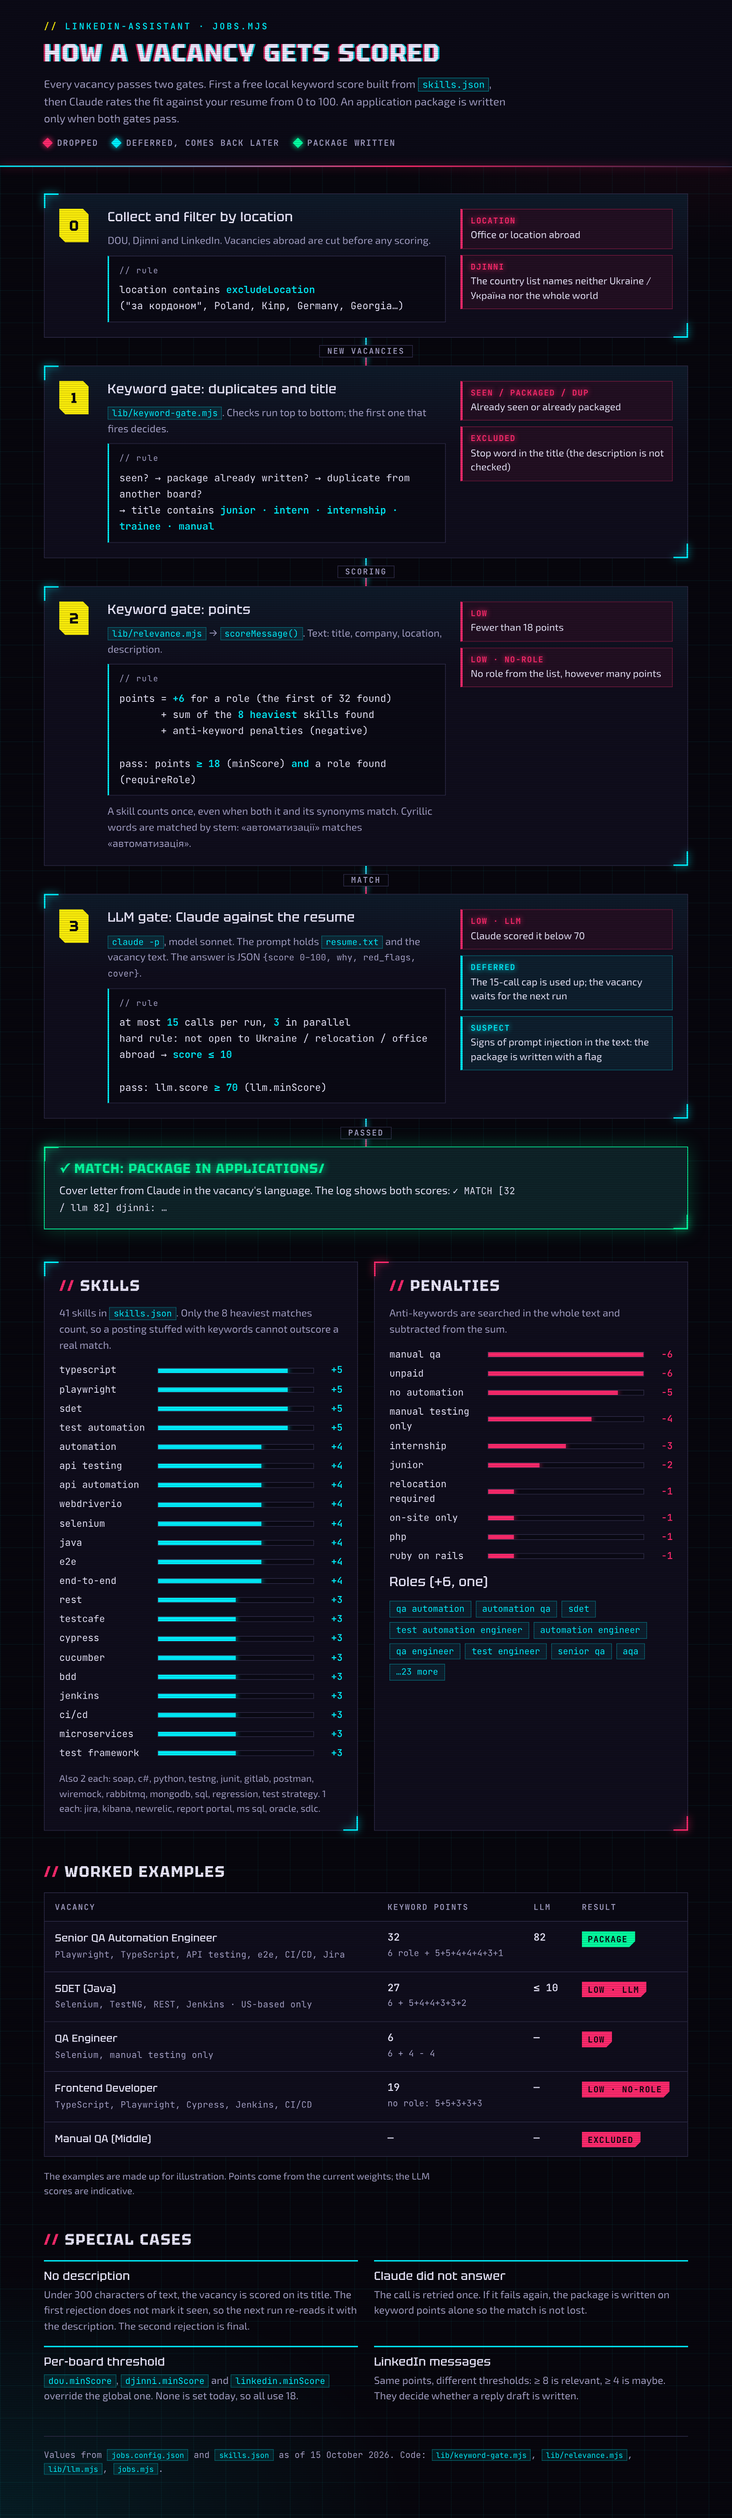
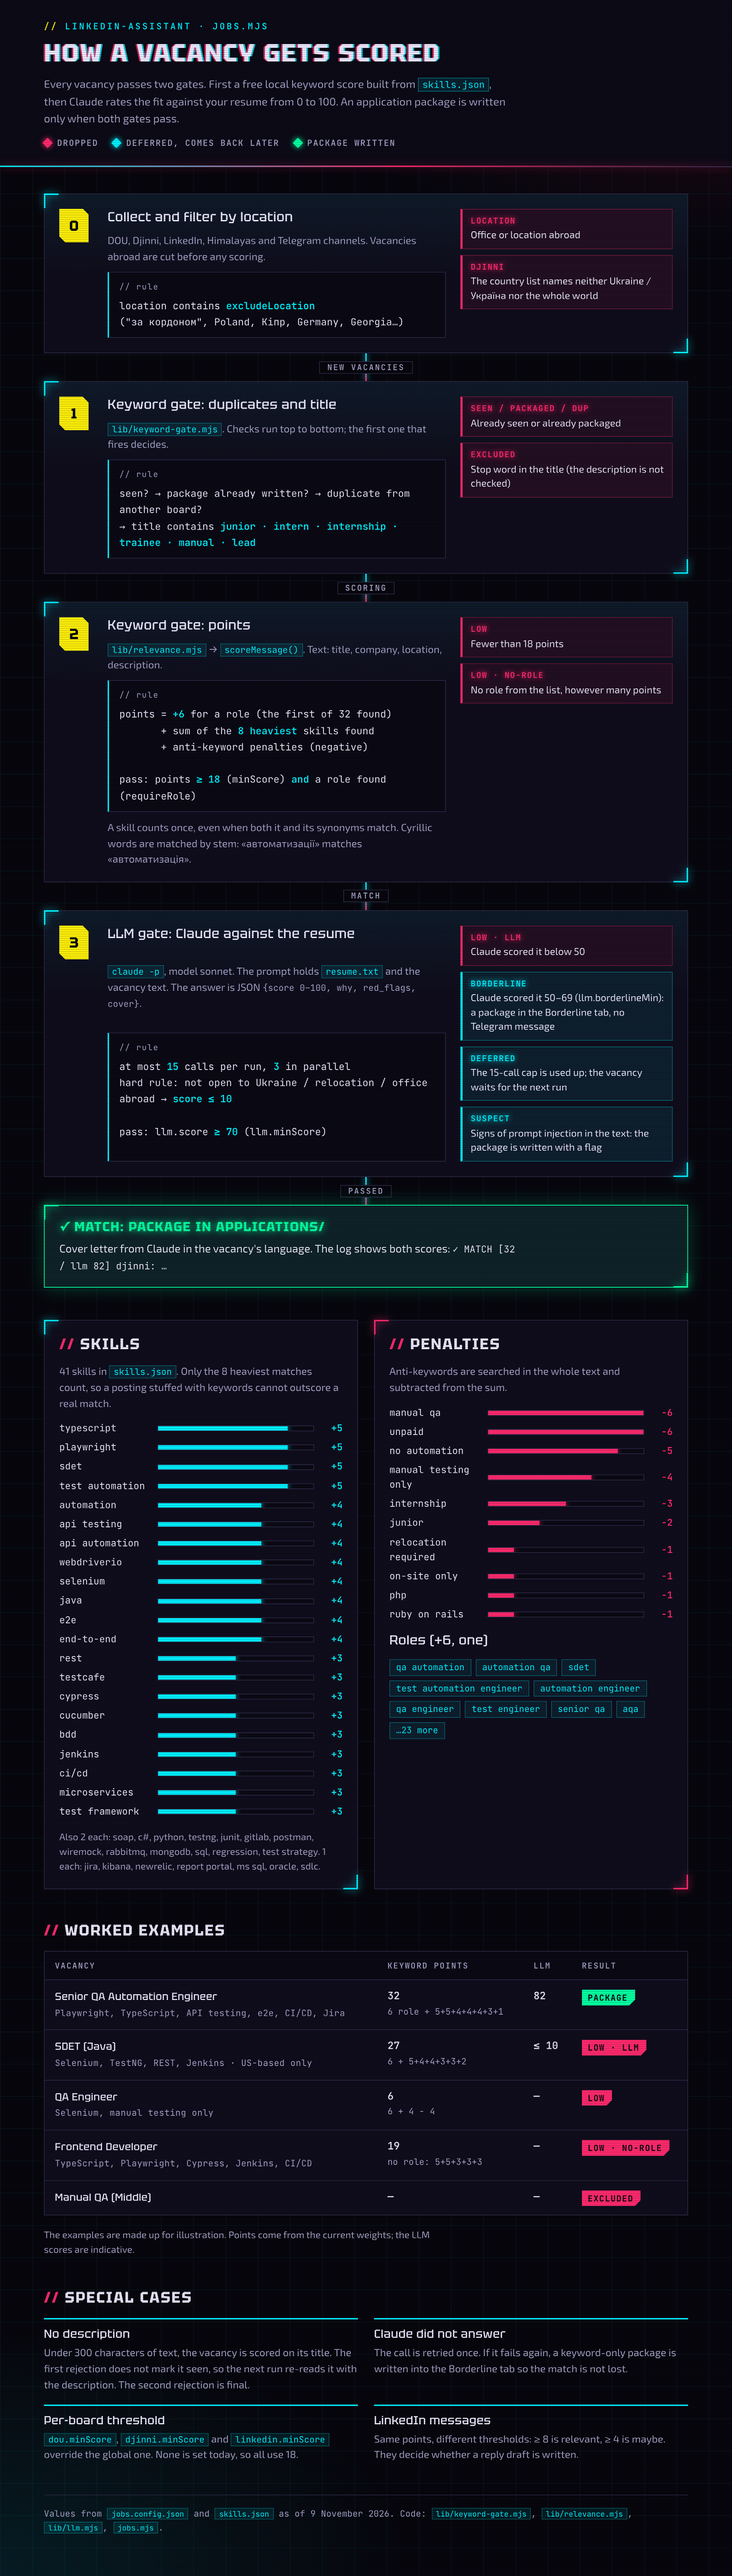
Bring the README images up to date with the code
The banner said 3 sources (there are 5: DOU, Djinni, LinkedIn, Himalayas,
Telegram channels); the scoring pages listed the title stop words without
lead, had no Borderline tier (llm.borderlineMin 50) and said a failed verdict
writes a plain package; the footer was dated 15 October. night-city.css
pointed at dashboard.mjs for tokens that live in lib/dashboard.css now.
Images re-rendered with docs/src/render.mjs.

diff --git a/docs/src/scoring.uk.html b/docs/src/scoring.uk.html
@@ -31,7 +31,7 @@
       <div class="num cut">0</div>
       <div class="body">
         <h3>Збір і фільтр за локацією</h3>
-        <p class="sub">DOU, Djinni та LinkedIn. Вакансії за кордоном відсікаються до будь-якої оцінки.</p>
+        <p class="sub">DOU, Djinni, LinkedIn, Himalayas і Telegram-канали. Вакансії за кордоном відсікаються до будь-якої оцінки.</p>
         <div class="rule" data-label="// правило">location містить <b>excludeLocation</b><br>(«за кордоном», Poland, Кіпр, Germany, Georgia…)</div>
       </div>
       <div class="exits">
@@ -46,7 +46,7 @@
       <div class="body">
         <h3>Keyword gate: дублі та заголовок</h3>
         <p class="sub"><code>lib/keyword-gate.mjs</code>. Перевірки йдуть згори вниз, вирішує перша, що спрацювала.</p>
-        <div class="rule" data-label="// правило">seen? → пакет уже є? → дубль з іншого майданчика?<br>→ заголовок містить <b>junior · intern · internship · trainee · manual</b></div>
+        <div class="rule" data-label="// правило">seen? → пакет уже є? → дубль з іншого майданчика?<br>→ заголовок містить <b>junior · intern · internship · trainee · manual · lead</b></div>
       </div>
       <div class="exits">
         <div class="exit"><span class="tag">seen / packaged / dup</span>Уже бачили або пакет уже є</div>
@@ -78,7 +78,8 @@
         <div class="rule" data-label="// правило">не більше <b>15</b> викликів за прогін, <b>3</b> паралельно<br>жорстке правило: не для України / релокейт / офіс за кордоном → <b>score ≤ 10</b><br><br>прохід: llm.score <b>≥ 70</b> (llm.minScore)</div>
       </div>
       <div class="exits">
-        <div class="exit"><span class="tag">low · llm</span>Claude поставив менше 70</div>
+        <div class="exit"><span class="tag">low · llm</span>Claude поставив менше 50</div>
+        <div class="exit soft"><span class="tag">borderline</span>Claude поставив 50–69 (llm.borderlineMin): пакет у вкладці Borderline, без повідомлення в Telegram</div>
         <div class="exit soft"><span class="tag">deferred</span>Ліміт 15 вичерпано, вакансія чекає наступного прогону</div>
         <div class="exit soft"><span class="tag">suspect</span>У тексті ознаки prompt injection: пакет пишеться з позначкою</div>
       </div>
@@ -153,13 +154,13 @@
     <h2>Особливі випадки</h2>
     <div class="notes">
       <div class="note"><h3>Немає опису</h3><p>Якщо тексту менше 300 символів, оцінка йде за заголовком. Перша відмова не позначає вакансію як seen, наступний прогін перечитає її з описом. Друга відмова вже остаточна.</p></div>
-      <div class="note"><h3>Claude не відповів</h3><p>Виклик повторюється один раз. Якщо знову помилка, пакет пишеться лише за keyword-балами, щоб збіг не загубився.</p></div>
+      <div class="note"><h3>Claude не відповів</h3><p>Виклик повторюється один раз. Якщо знову помилка, пакет лише за keyword-балами пишеться у вкладку Borderline, щоб збіг не загубився.</p></div>
       <div class="note"><h3>Свій поріг у майданчика</h3><p><code>dou.minScore</code>, <code>djinni.minScore</code>, <code>linkedin.minScore</code> перекривають загальний. Зараз жоден не задано, у всіх 18.</p></div>
       <div class="note"><h3>Повідомлення в LinkedIn</h3><p>Ті самі бали, але інші пороги: ≥ 8 — relevant, ≥ 4 — maybe. Вони вирішують, чи писати чернетку відповіді.</p></div>
     </div>
   </section>
 
-  <footer>Значення з <code>jobs.config.json</code> і <code>skills.json</code> станом на 15 жовтня 2026. Код: <code>lib/keyword-gate.mjs</code>, <code>lib/relevance.mjs</code>, <code>lib/llm.mjs</code>, <code>jobs.mjs</code>.</footer>
+  <footer>Значення з <code>jobs.config.json</code> і <code>skills.json</code> станом на 9 листопада 2026. Код: <code>lib/keyword-gate.mjs</code>, <code>lib/relevance.mjs</code>, <code>lib/llm.mjs</code>, <code>jobs.mjs</code>.</footer>
 </div>
 </div>
 

diff --git a/docs/src/scoring.en.html b/docs/src/scoring.en.html
@@ -31,7 +31,7 @@
       <div class="num cut">0</div>
       <div class="body">
         <h3>Collect and filter by location</h3>
-        <p class="sub">DOU, Djinni and LinkedIn. Vacancies abroad are cut before any scoring.</p>
+        <p class="sub">DOU, Djinni, LinkedIn, Himalayas and Telegram channels. Vacancies abroad are cut before any scoring.</p>
         <div class="rule" data-label="// rule">location contains <b>excludeLocation</b><br>("за кордоном", Poland, Кіпр, Germany, Georgia…)</div>
       </div>
       <div class="exits">
@@ -46,7 +46,7 @@
       <div class="body">
         <h3>Keyword gate: duplicates and title</h3>
         <p class="sub"><code>lib/keyword-gate.mjs</code>. Checks run top to bottom; the first one that fires decides.</p>
-        <div class="rule" data-label="// rule">seen? → package already written? → duplicate from another board?<br>→ title contains <b>junior · intern · internship · trainee · manual</b></div>
+        <div class="rule" data-label="// rule">seen? → package already written? → duplicate from another board?<br>→ title contains <b>junior · intern · internship · trainee · manual · lead</b></div>
       </div>
       <div class="exits">
         <div class="exit"><span class="tag">seen / packaged / dup</span>Already seen or already packaged</div>
@@ -78,7 +78,8 @@
         <div class="rule" data-label="// rule">at most <b>15</b> calls per run, <b>3</b> in parallel<br>hard rule: not open to Ukraine / relocation / office abroad → <b>score ≤ 10</b><br><br>pass: llm.score <b>≥ 70</b> (llm.minScore)</div>
       </div>
       <div class="exits">
-        <div class="exit"><span class="tag">low · llm</span>Claude scored it below 70</div>
+        <div class="exit"><span class="tag">low · llm</span>Claude scored it below 50</div>
+        <div class="exit soft"><span class="tag">borderline</span>Claude scored it 50–69 (llm.borderlineMin): a package in the Borderline tab, no Telegram message</div>
         <div class="exit soft"><span class="tag">deferred</span>The 15-call cap is used up; the vacancy waits for the next run</div>
         <div class="exit soft"><span class="tag">suspect</span>Signs of prompt injection in the text: the package is written with a flag</div>
       </div>
@@ -153,13 +154,13 @@
     <h2>Special cases</h2>
     <div class="notes">
       <div class="note"><h3>No description</h3><p>Under 300 characters of text, the vacancy is scored on its title. The first rejection does not mark it seen, so the next run re-reads it with the description. The second rejection is final.</p></div>
-      <div class="note"><h3>Claude did not answer</h3><p>The call is retried once. If it fails again, the package is written on keyword points alone so the match is not lost.</p></div>
+      <div class="note"><h3>Claude did not answer</h3><p>The call is retried once. If it fails again, a keyword-only package is written into the Borderline tab so the match is not lost.</p></div>
       <div class="note"><h3>Per-board threshold</h3><p><code>dou.minScore</code>, <code>djinni.minScore</code> and <code>linkedin.minScore</code> override the global one. None is set today, so all use 18.</p></div>
       <div class="note"><h3>LinkedIn messages</h3><p>Same points, different thresholds: ≥ 8 is relevant, ≥ 4 is maybe. They decide whether a reply draft is written.</p></div>
     </div>
   </section>
 
-  <footer>Values from <code>jobs.config.json</code> and <code>skills.json</code> as of 15 October 2026. Code: <code>lib/keyword-gate.mjs</code>, <code>lib/relevance.mjs</code>, <code>lib/llm.mjs</code>, <code>jobs.mjs</code>.</footer>
+  <footer>Values from <code>jobs.config.json</code> and <code>skills.json</code> as of 9 November 2026. Code: <code>lib/keyword-gate.mjs</code>, <code>lib/relevance.mjs</code>, <code>lib/llm.mjs</code>, <code>jobs.mjs</code>.</footer>
 </div>
 </div>
 

diff --git a/docs/src/banner.html b/docs/src/banner.html
@@ -55,8 +55,8 @@
 </div>
 <script>
   const T = {
-    en: { eyebrow: "<b>//</b> local job radar · dou · djinni · linkedin", tag: "Finds, scores, drafts. <b>The last click is yours.</b>", c1: "3 sources", c2: "100% local", c3: "never sends" },
-    uk: { eyebrow: "<b>//</b> локальний радар вакансій · dou · djinni · linkedin", tag: "Шукає, оцінює, готує чернетки. <b>Останній клік — ваш.</b>", c1: "3 джерела", c2: "лише локально", c3: "нічого не надсилає" },
+    en: { eyebrow: "<b>//</b> job radar · dou · djinni · linkedin · himalayas · telegram", tag: "Finds, scores, drafts. <b>The last click is yours.</b>", c1: "5 sources", c2: "100% local", c3: "never sends" },
+    uk: { eyebrow: "<b>//</b> радар · dou · djinni · linkedin · himalayas · telegram", tag: "Шукає, оцінює, готує чернетки. <b>Останній клік — ваш.</b>", c1: "5 джерел", c2: "лише локально", c3: "нічого не надсилає" },
   };
   const lang = new URLSearchParams(location.search).get("lang") === "uk" ? "uk" : "en";
   document.documentElement.lang = lang;

diff --git a/docs/src/night-city.css b/docs/src/night-city.css
@@ -1,5 +1,5 @@
 /* "Night City" tokens for the README images, copied from the dashboard skin in
-   dashboard.mjs so the pictures match the app. Light or dark follows the
+   lib/dashboard.css so the pictures match the app. Light or dark follows the
    colour scheme (render.mjs emulates each one). The HUD bar stays dark in
    both modes, as the dashboard header does. */
 @import url("https://fonts.googleapis.com/css2?family=Exo+2:wght@400;600;700&family=JetBrains+Mono:wght@400;600;700&family=Tektur:wght@500;700&display=block");
